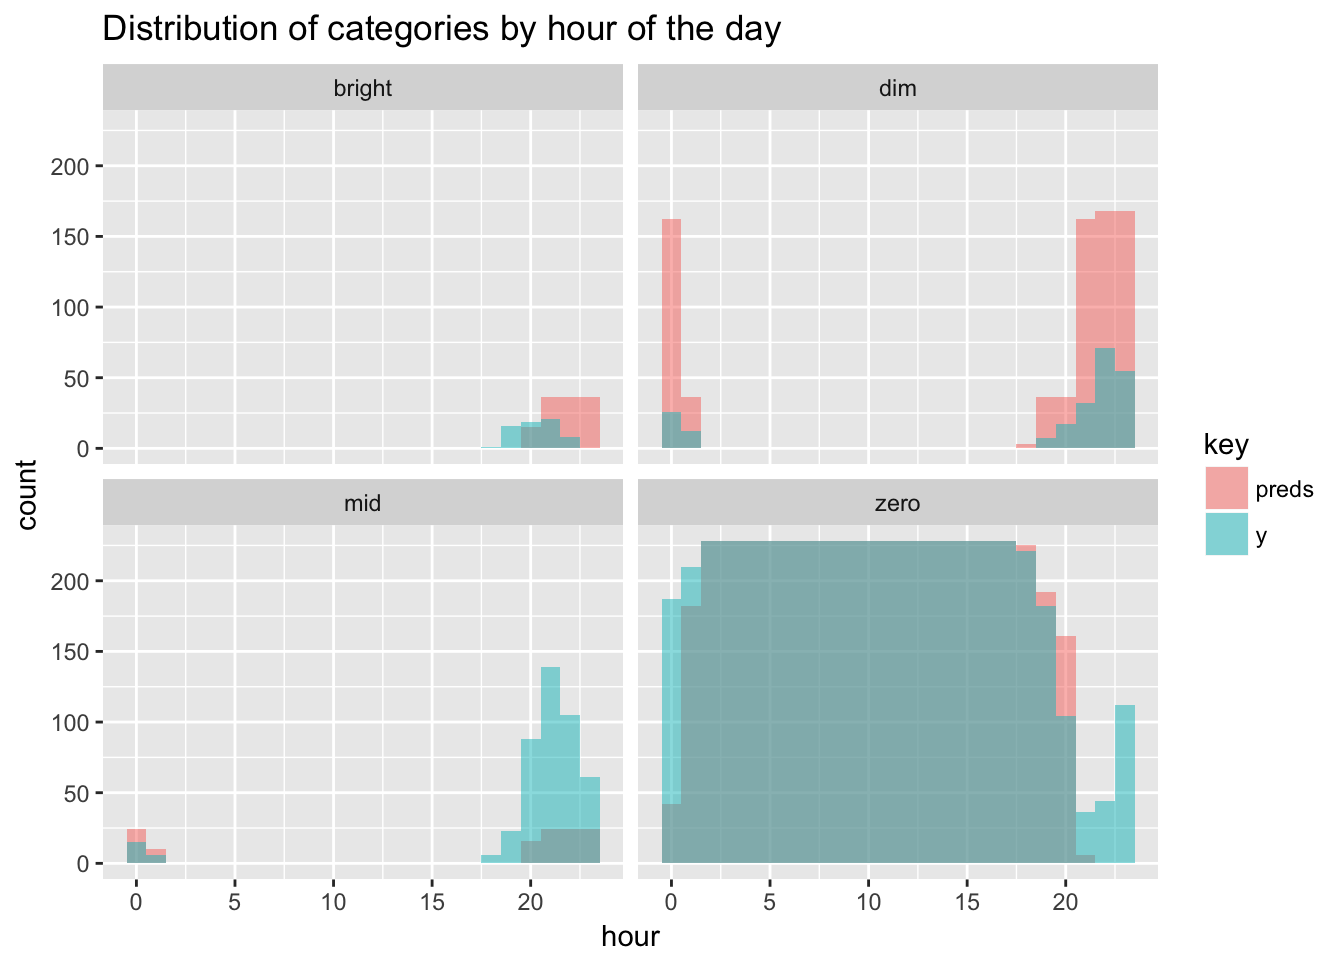
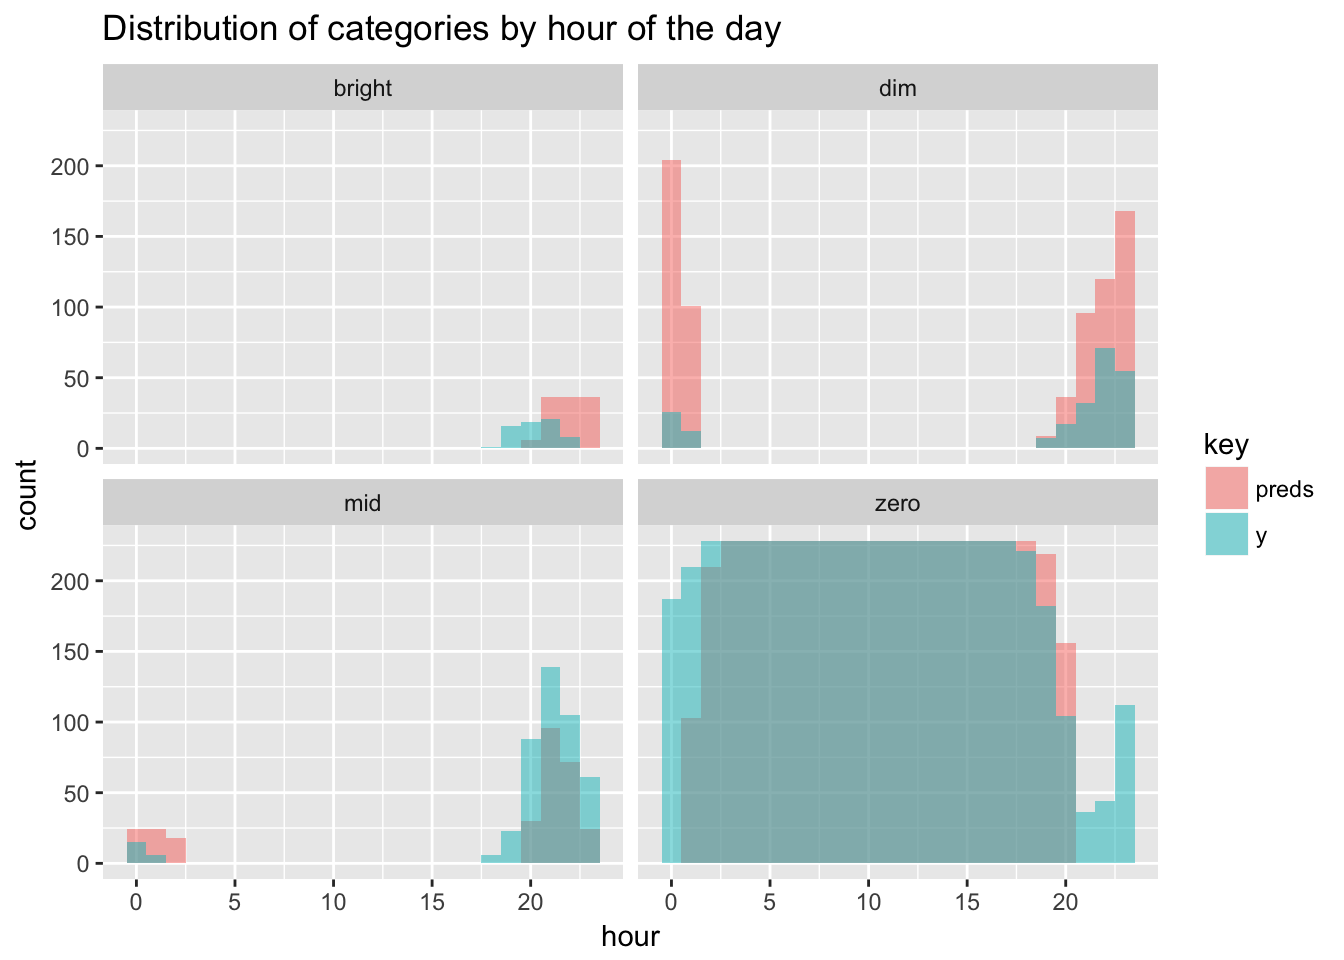
disqus fix attempt

diff --git a/blog/self-learning-hue-lights/index.html b/blog/self-learning-hue-lights/index.html
@@ -44,11 +44,11 @@
 
 
     
-    <link rel="stylesheet" href="../../css/reset.css?t=1504443548">
-    <link rel="stylesheet" href="../../css/pygments.css?t=1504443548">
-    <link rel="stylesheet" href="../../css/main.css?t=1504443548">
+    <link rel="stylesheet" href="../../css/reset.css?t=1504541951">
+    <link rel="stylesheet" href="../../css/pygments.css?t=1504541951">
+    <link rel="stylesheet" href="../../css/main.css?t=1504541951">
     
-        <link rel="stylesheet" href="../../css/override.css?t=1504443548">
+        <link rel="stylesheet" href="../../css/override.css?t=1504541951">
     
 
 
@@ -278,10 +278,10 @@ gbmFit &lt;- train(y ~ ., data = training,
 table(preds, testing$y)</code></pre>
 <pre><code>##         
 ## preds     dim  mid bright zero
-##   dim     107  255     31  378
-##   mid      31   21      5   65
-##   bright   37   56      0   30
-##   zero     45  111     29 4271</code></pre>
+##   dim      98  195     30  411
+##   mid      62   93      6  127
+##   bright   37   51      0   26
+##   zero     23  104     29 4180</code></pre>
 <p>Most mistakes are made trying to classify bright and mid. The model gets 0 bright values right and only manages to do so correctly 14% of the time for mid. But when do errors happen? To dig a little deeper let’s look at the previous histogram of categories by hour again for the test set, but now with the predictions overlaid on top.</p>
 <p><img src="../../blog/2017/2017-05-14-hue_files/figure-html/unnamed-chunk-11-1.png" width="672" /></p>
 <p>Bright values were always going be hard to guess, but the model at least comes close in terms of hours, but off on the exact days. The majority of misclassification comes from overzealously predicting dim in the evening and around midnight, when it should really be either mid or zero. That looks like a workable scenario for me.</p>
@@ -332,7 +332,7 @@ jug() %&gt;% post(&quot;/predict-hue&quot;, decorate(predict_hue)) %&gt;%
             <div class="disqus">
                 <div id="disqus_thread"></div>
 <script type="text/javascript">
-    var disqus_shortname = 'Tamas';
+    var disqus_shortname = 'tamas-blog';
     var disqus_identifier = 'http:\/\/tamaszilagyi.com\/blog\/self-learning-hue-lights\/';
     var disqus_title = 'Self-learning Hue Lights';
     var disqus_url = 'http:\/\/tamaszilagyi.com\/blog\/self-learning-hue-lights\/';

diff --git a/blog/creating-a-spotify-playlist-using-luigi/index.html b/blog/creating-a-spotify-playlist-using-luigi/index.html
@@ -44,11 +44,11 @@
 
 
     
-    <link rel="stylesheet" href="../../css/reset.css?t=1504443548">
-    <link rel="stylesheet" href="../../css/pygments.css?t=1504443548">
-    <link rel="stylesheet" href="../../css/main.css?t=1504443548">
+    <link rel="stylesheet" href="../../css/reset.css?t=1504541951">
+    <link rel="stylesheet" href="../../css/pygments.css?t=1504541951">
+    <link rel="stylesheet" href="../../css/main.css?t=1504541951">
     
-        <link rel="stylesheet" href="../../css/override.css?t=1504443548">
+        <link rel="stylesheet" href="../../css/override.css?t=1504541951">
     
 
 
@@ -434,7 +434,7 @@ class spotify_morning_playlist(luigi.Task):
             <div class="disqus">
                 <div id="disqus_thread"></div>
 <script type="text/javascript">
-    var disqus_shortname = 'Tamas';
+    var disqus_shortname = 'tamas-blog';
     var disqus_identifier = 'http:\/\/tamaszilagyi.com\/blog\/creating-a-spotify-playlist-using-luigi\/';
     var disqus_title = 'Creating a Spotify Playlist using Luigi';
     var disqus_url = 'http:\/\/tamaszilagyi.com\/blog\/creating-a-spotify-playlist-using-luigi\/';

diff --git a/blog/analyzing-my-spotify-listening-history/index.html b/blog/analyzing-my-spotify-listening-history/index.html
@@ -44,11 +44,11 @@
 
 
     
-    <link rel="stylesheet" href="../../css/reset.css?t=1504443548">
-    <link rel="stylesheet" href="../../css/pygments.css?t=1504443548">
-    <link rel="stylesheet" href="../../css/main.css?t=1504443548">
+    <link rel="stylesheet" href="../../css/reset.css?t=1504541951">
+    <link rel="stylesheet" href="../../css/pygments.css?t=1504541951">
+    <link rel="stylesheet" href="../../css/main.css?t=1504541951">
     
-        <link rel="stylesheet" href="../../css/override.css?t=1504443548">
+        <link rel="stylesheet" href="../../css/override.css?t=1504541951">
     
 
 
@@ -400,7 +400,7 @@ gganimate(gg_life)</code></pre>
             <div class="disqus">
                 <div id="disqus_thread"></div>
 <script type="text/javascript">
-    var disqus_shortname = 'Tamas';
+    var disqus_shortname = 'tamas-blog';
     var disqus_identifier = 'http:\/\/tamaszilagyi.com\/blog\/analyzing-my-spotify-listening-history\/';
     var disqus_title = 'Analyzing My Spotify Listening History';
     var disqus_url = 'http:\/\/tamaszilagyi.com\/blog\/analyzing-my-spotify-listening-history\/';

diff --git a/blog/starting-a-blogdown/index.html b/blog/starting-a-blogdown/index.html
@@ -44,11 +44,11 @@
 
 
     
-    <link rel="stylesheet" href="../../css/reset.css?t=1504443548">
-    <link rel="stylesheet" href="../../css/pygments.css?t=1504443548">
-    <link rel="stylesheet" href="../../css/main.css?t=1504443548">
+    <link rel="stylesheet" href="../../css/reset.css?t=1504541951">
+    <link rel="stylesheet" href="../../css/pygments.css?t=1504541951">
+    <link rel="stylesheet" href="../../css/main.css?t=1504541951">
     
-        <link rel="stylesheet" href="../../css/override.css?t=1504443548">
+        <link rel="stylesheet" href="../../css/override.css?t=1504541951">
     
 
 
@@ -214,7 +214,7 @@ avatar       = &quot;img/profile_pic.png&quot;
             <div class="disqus">
                 <div id="disqus_thread"></div>
 <script type="text/javascript">
-    var disqus_shortname = 'Tamas';
+    var disqus_shortname = 'tamas-blog';
     var disqus_identifier = 'http:\/\/tamaszilagyi.com\/blog\/starting-a-blogdown\/';
     var disqus_title = 'Starting a blog(down)';
     var disqus_url = 'http:\/\/tamaszilagyi.com\/blog\/starting-a-blogdown\/';

diff --git a/categories/r/index.html b/categories/r/index.html
@@ -44,11 +44,11 @@
 
 
     
-    <link rel="stylesheet" href="../../css/reset.css?t=1504443549">
-    <link rel="stylesheet" href="../../css/pygments.css?t=1504443549">
-    <link rel="stylesheet" href="../../css/main.css?t=1504443549">
+    <link rel="stylesheet" href="../../css/reset.css?t=1504541951">
+    <link rel="stylesheet" href="../../css/pygments.css?t=1504541951">
+    <link rel="stylesheet" href="../../css/main.css?t=1504541951">
     
-        <link rel="stylesheet" href="../../css/override.css?t=1504443549">
+        <link rel="stylesheet" href="../../css/override.css?t=1504541951">
     
 
 

diff --git a/tags/dplyr/index.html b/tags/dplyr/index.html
@@ -44,11 +44,11 @@
 
 
     
-    <link rel="stylesheet" href="../../css/reset.css?t=1504443549">
-    <link rel="stylesheet" href="../../css/pygments.css?t=1504443549">
-    <link rel="stylesheet" href="../../css/main.css?t=1504443549">
+    <link rel="stylesheet" href="../../css/reset.css?t=1504541951">
+    <link rel="stylesheet" href="../../css/pygments.css?t=1504541951">
+    <link rel="stylesheet" href="../../css/main.css?t=1504541951">
     
-        <link rel="stylesheet" href="../../css/override.css?t=1504443549">
+        <link rel="stylesheet" href="../../css/override.css?t=1504541951">
     
 
 

diff --git a/tags/ggplot/index.html b/tags/ggplot/index.html
@@ -44,11 +44,11 @@
 
 
     
-    <link rel="stylesheet" href="../../css/reset.css?t=1504443549">
-    <link rel="stylesheet" href="../../css/pygments.css?t=1504443549">
-    <link rel="stylesheet" href="../../css/main.css?t=1504443549">
+    <link rel="stylesheet" href="../../css/reset.css?t=1504541951">
+    <link rel="stylesheet" href="../../css/pygments.css?t=1504541951">
+    <link rel="stylesheet" href="../../css/main.css?t=1504541951">
     
-        <link rel="stylesheet" href="../../css/override.css?t=1504443549">
+        <link rel="stylesheet" href="../../css/override.css?t=1504541951">
     
 
 

diff --git a/tags/hue/index.html b/tags/hue/index.html
@@ -44,11 +44,11 @@
 
 
     
-    <link rel="stylesheet" href="../../css/reset.css?t=1504443549">
-    <link rel="stylesheet" href="../../css/pygments.css?t=1504443549">
-    <link rel="stylesheet" href="../../css/main.css?t=1504443549">
+    <link rel="stylesheet" href="../../css/reset.css?t=1504541951">
+    <link rel="stylesheet" href="../../css/pygments.css?t=1504541951">
+    <link rel="stylesheet" href="../../css/main.css?t=1504541951">
     
-        <link rel="stylesheet" href="../../css/override.css?t=1504443549">
+        <link rel="stylesheet" href="../../css/override.css?t=1504541951">
     
 
 

diff --git a/tags/luigi/index.html b/tags/luigi/index.html
@@ -44,11 +44,11 @@
 
 
     
-    <link rel="stylesheet" href="../../css/reset.css?t=1504443549">
-    <link rel="stylesheet" href="../../css/pygments.css?t=1504443549">
-    <link rel="stylesheet" href="../../css/main.css?t=1504443549">
+    <link rel="stylesheet" href="../../css/reset.css?t=1504541951">
+    <link rel="stylesheet" href="../../css/pygments.css?t=1504541951">
+    <link rel="stylesheet" href="../../css/main.css?t=1504541951">
     
-        <link rel="stylesheet" href="../../css/override.css?t=1504443549">
+        <link rel="stylesheet" href="../../css/override.css?t=1504541951">
     
 
 

diff --git a/tags/plot/index.html b/tags/plot/index.html
@@ -44,11 +44,11 @@
 
 
     
-    <link rel="stylesheet" href="../../css/reset.css?t=1504443549">
-    <link rel="stylesheet" href="../../css/pygments.css?t=1504443549">
-    <link rel="stylesheet" href="../../css/main.css?t=1504443549">
+    <link rel="stylesheet" href="../../css/reset.css?t=1504541951">
+    <link rel="stylesheet" href="../../css/pygments.css?t=1504541951">
+    <link rel="stylesheet" href="../../css/main.css?t=1504541951">
     
-        <link rel="stylesheet" href="../../css/override.css?t=1504443549">
+        <link rel="stylesheet" href="../../css/override.css?t=1504541951">
     
 
 

diff --git a/tags/purrr/index.html b/tags/purrr/index.html
@@ -44,11 +44,11 @@
 
 
     
-    <link rel="stylesheet" href="../../css/reset.css?t=1504443549">
-    <link rel="stylesheet" href="../../css/pygments.css?t=1504443549">
-    <link rel="stylesheet" href="../../css/main.css?t=1504443549">
+    <link rel="stylesheet" href="../../css/reset.css?t=1504541951">
+    <link rel="stylesheet" href="../../css/pygments.css?t=1504541951">
+    <link rel="stylesheet" href="../../css/main.css?t=1504541951">
     
-        <link rel="stylesheet" href="../../css/override.css?t=1504443549">
+        <link rel="stylesheet" href="../../css/override.css?t=1504541951">
     
 
 

diff --git a/tags/python/index.html b/tags/python/index.html
@@ -44,11 +44,11 @@
 
 
     
-    <link rel="stylesheet" href="../../css/reset.css?t=1504443549">
-    <link rel="stylesheet" href="../../css/pygments.css?t=1504443549">
-    <link rel="stylesheet" href="../../css/main.css?t=1504443549">
+    <link rel="stylesheet" href="../../css/reset.css?t=1504541951">
+    <link rel="stylesheet" href="../../css/pygments.css?t=1504541951">
+    <link rel="stylesheet" href="../../css/main.css?t=1504541951">
     
-        <link rel="stylesheet" href="../../css/override.css?t=1504443549">
+        <link rel="stylesheet" href="../../css/override.css?t=1504541951">
     
 
 
